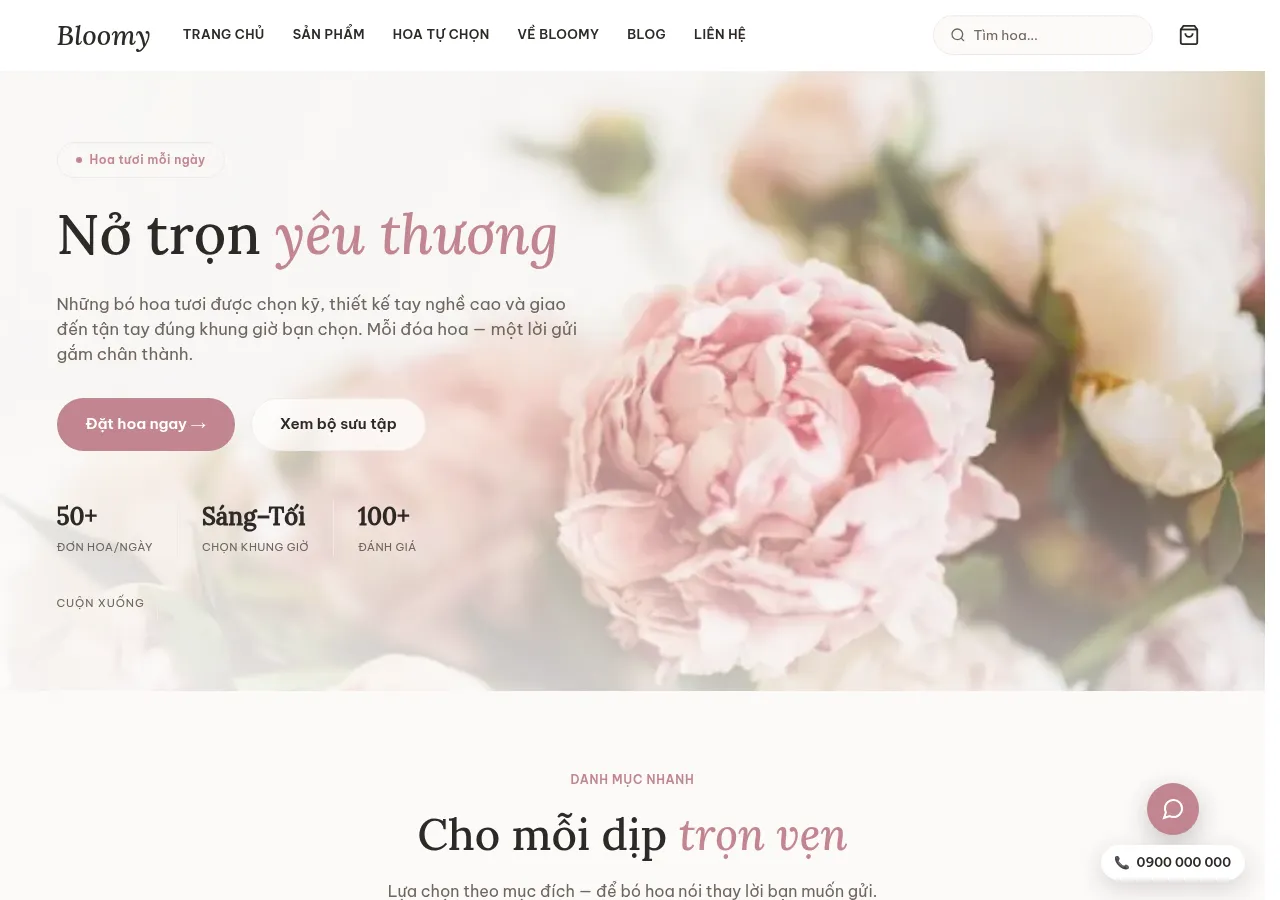
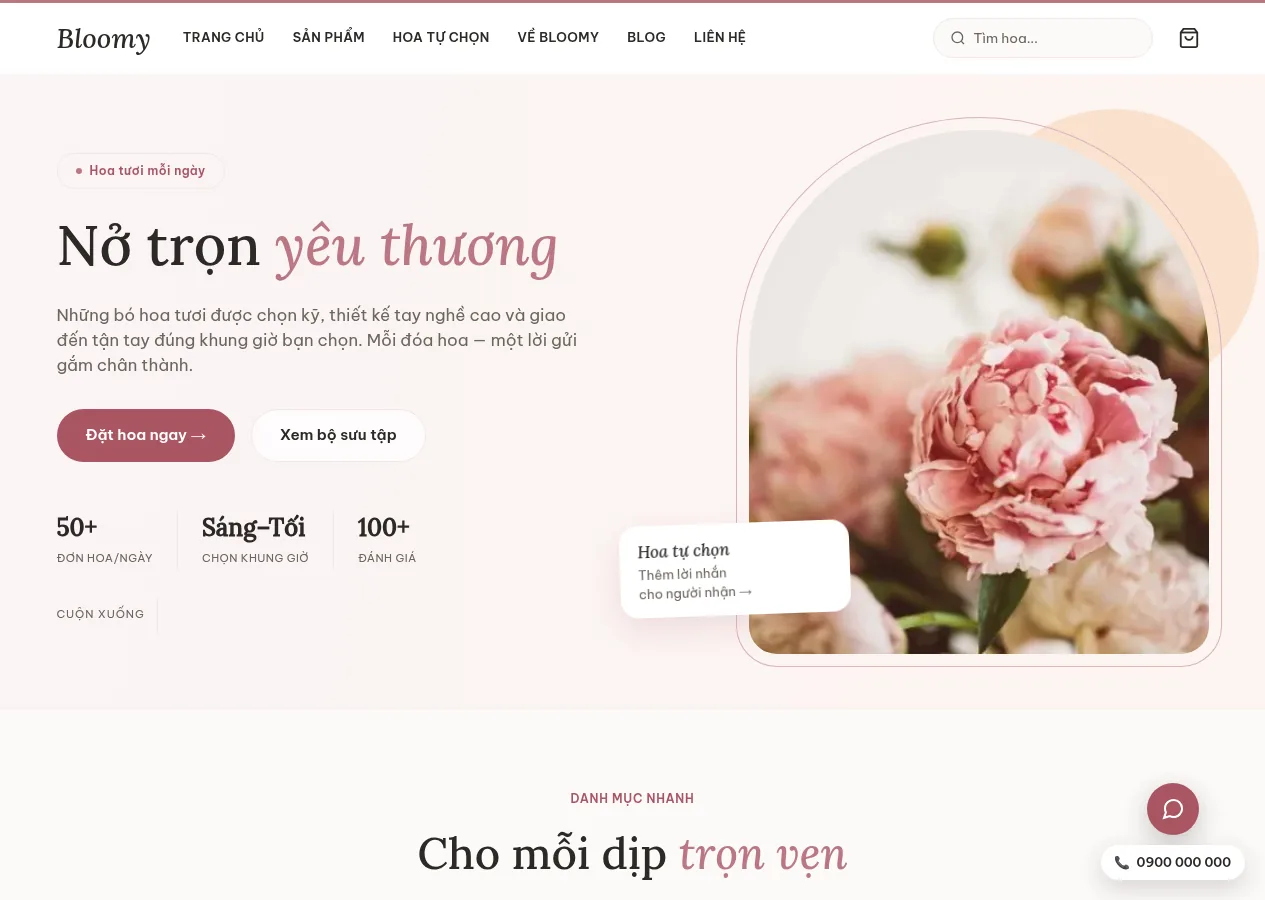
README: new home and product list screenshots, TypeScript on both sides, current counts; version 2.0.0
The screenshots predate the hero arch, the new header line and the pink Tự thiết kế bó hoa button.
The README still said the browser files were plain JavaScript and counted 1,732 checks.
package.json was still at 1.0.0 (the name "production" is left as it is).

diff --git a/README.md b/README.md
@@ -1,6 +1,6 @@
 # Bloomy
 
-A flower shop web app: storefront, checkout, and a back office for staff. Node, Express 5, PostgreSQL, a TypeScript server, and a plain HTML/CSS/JS front end with no framework. The site's text is in Vietnamese. It was built for a university e-commerce course.
+A flower shop web app: storefront, checkout, and a back office for staff. Node, Express 5, PostgreSQL, TypeScript on the server and in the browser, and plain HTML and CSS with no framework. The site's text is in Vietnamese. It was built for a university e-commerce course.
 
 Live: https://bloomy.quaintshomelabdomain.uk
 
@@ -10,19 +10,19 @@ Live: https://bloomy.quaintshomelabdomain.uk
 
 ## What it does
 
-**Customers:** browse by category, tag and search; product pages with stock status; a custom bouquet builder; one-page checkout with delivery date and time window; occasion landing pages with coupons; reviews; a blog. Payment is cash on delivery or ZaloPay (sandbox only).
+**Customers:** browse by category, tag and search; product pages with stock status; a custom bouquet builder; one-page checkout with delivery date and time window; occasion campaigns (Tết, Valentine, 20/10, Trung thu, 20/11, Giáng sinh; one landing page on at a time) with coupons; reviews; a blog. Payment is cash on delivery or ZaloPay (sandbox only).
 
 **Staff:** orders and refunds, a point-of-sale screen for counter sales, products, flower stock, coupons, campaigns, delivery cut-offs, review moderation, an SEO panel, settings, statistics. Accounts have three roles (owner, manager, employee); owners can turn on two-factor login (TOTP).
 
 ## How it is built
 
 - **The server prices everything.** `POST /api/orders/quote` returns every amount; the browser never computes money. Prices are tax-inclusive.
-- **TypeScript on the server only.** `tsc` compiles next to the sources; the browser files are plain JavaScript. Database enums and row shapes live in `types.ts`.
+- **TypeScript on both sides.** `tsc` compiles the server next to the sources; each page script is a `web/*.ts` file that esbuild bundles into `public/js/` (classic `<script defer>`, no framework). Types the server and the browser both read live in `shared/`; database enums and row shapes in `types.ts`.
 - **Declarative schema.** `schema.sql` is the only schema source and is applied with [pgschema](https://github.com/pgplex/pgschema); nothing is hand-altered.
 - **Strict Content-Security-Policy.** No inline scripts or styles; customer text goes through `textContent` or an escape helper.
 - **Pages are rendered on the server** from shared partials, with asset fingerprinting (`?v=<hash>`) and an esbuild minify stage in the Dockerfile.
 - **Sessions in PostgreSQL** (`connect-pg-simple`), bcrypt passwords, rate-limited login.
-- **29 test suites, 1,732 checks** against a real server and database, using jsdom for the pages.
+- **29 test suites, 1,779 checks** against a real server and database, using jsdom for the pages.
 - **CI on GitHub Actions** builds the images, checks the schema against a throwaway PostgreSQL, runs the suites, and publishes to GHCR from `main`.
 
 Architecture, the API table and the locked design decisions are in [`docs/00-HANDOFF.md`](docs/00-HANDOFF.md).
@@ -41,7 +41,7 @@ docker run --rm --network bloomy-local -e PGHOST=bloomy-local-pg -e PGUSER=quain
 export DB_HOST=127.0.0.1 DB_PORT=5433 DB_USER=quaint DB_NAME=bloomy DB_PASSWORD=dev SESSION_SECRET=local-dev-only BLOOMY_BASE_URL=http://localhost:3000 ZALOPAY_APP_ID=1 ZALOPAY_KEY1=dummy ZALOPAY_KEY2=dummy ZALOPAY_ENDPOINT=https://sb-openapi.zalopay.vn EMAIL_MODE=log RESEND_API_KEY= NODE_ENV=development PORT=3000 BASE=http://localhost:3000
 export TOTP_ENCRYPTION_KEY="$(openssl rand -base64 32)"
 npm ci && (cd tests && npm ci)    # app deps, then jsdom for the suites
-npm run build    # compile the .ts to .js next to it; again after every server edit
+npm run build    # compile the server .ts and bundle web/*.ts into public/js; again after every server or web edit
 node server.js &    # check: curl -sf localhost:3000/healthz
 ```
 
@@ -64,7 +64,8 @@ Only `DB_HOST`, `DB_PORT`, `DB_USER` and `DB_PASSWORD` of a local Postgres are n
 server.ts, routes/        Express app and the API (one file per area)
 pricing.ts, render.ts     quote engine; server-side page rendering
 db.ts, types.ts, seo.ts, totp.ts, email.ts, blog.ts
-public/                   pages, css, js, images (served as is)
+public/                   pages, css, images (served as is); public/js is built from web/
+web/, shared/             page scripts (TypeScript); types and rules both sides use
 partials/, content/       shared page parts; blog posts
 schema.sql, seed-*.sql    the schema and the seed data
 Dockerfile, Dockerfile.schema   app image; schema and seed tools
